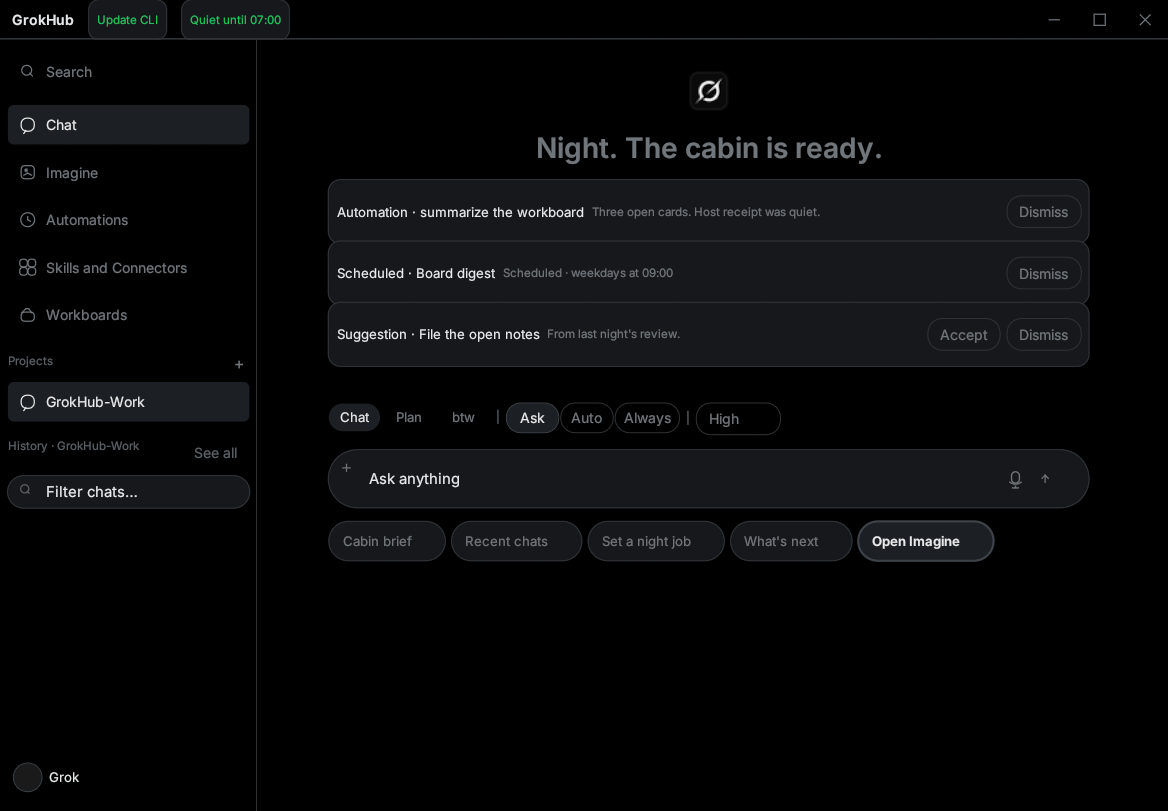
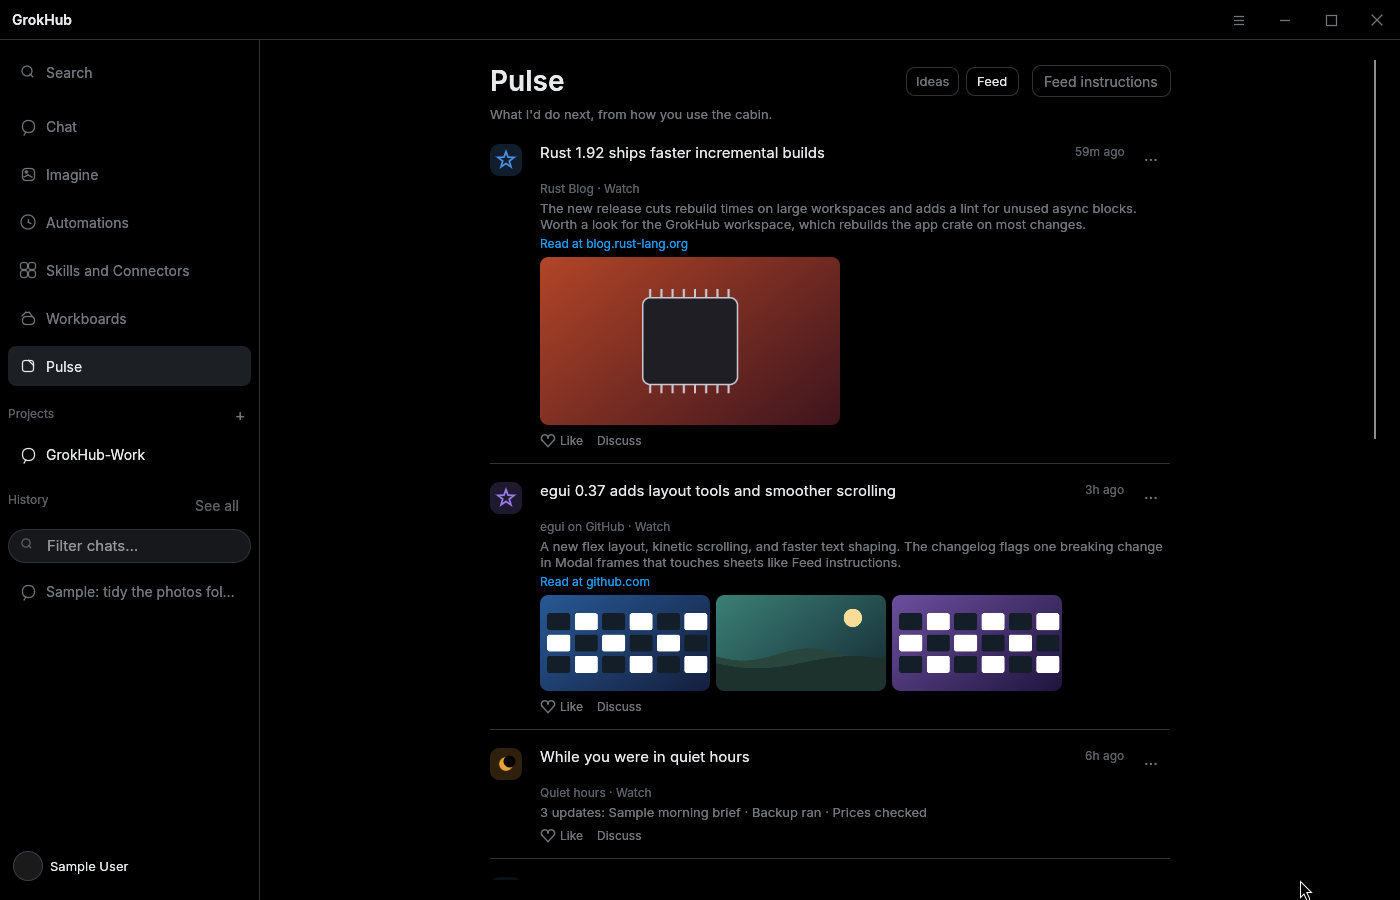
Cabin 2.10.91: Ideas is Pulse (README, CHANGELOG, docs renders, guide chip)

diff --git a/crates/grokhub-core/src/chips.rs b/crates/grokhub-core/src/chips.rs
@@ -582,8 +582,8 @@ fn guide_chips(connected: bool) -> Vec<QuickChip> {
     ));
     out.push(chip(
         "guide-ideas",
-        "Show Ideas",
-        "Explain the Ideas board in two sentences, then tell me how to open it.",
+        "Show Pulse",
+        "Explain the Pulse page (Ideas and Feed) in two sentences, then tell me how to open it.",
         ChipKind::Chat,
         100.0,
         "New here",

diff --git a/crates/grokhub-app/src/cli.rs b/crates/grokhub-app/src/cli.rs
@@ -91,7 +91,7 @@ mod tests {
 
     #[test]
     fn cabin_reports_version() {
-        assert_eq!(env!("CARGO_PKG_VERSION"), "2.10.90");
+        assert_eq!(env!("CARGO_PKG_VERSION"), "2.10.91");
     }
 
     #[test]

diff --git a/README.md b/README.md
@@ -2,12 +2,12 @@
 
 Native Rust cabin. No Electron. No Tauri. One repo, one `main`, one version — two ship artifacts.
 
-**v2.10.90** — Scheduled jobs run like crons: nothing shows while they run, they never hold up your chat, and their results land on the Follow up and Home cards.
+**v2.10.91** — Ideas is now Pulse: "I can …" ideas by category and a feed of posts with real images, ranked by plain rules, with feed instructions that learn what you like.
 
 | Platform | Artifact | Latest |
 |----------|----------|--------|
-| **Linux** (Arch / CachyOS) | `grokhub-linux-v2.10.90.tar.gz`, AUR | **v2.10.90** |
-| **Windows** (x86_64) | `GrokHub-Setup-2.10.90.exe`, `grokhub-windows-v2.10.90.zip` | **v2.10.90** |
+| **Linux** (Arch / CachyOS) | `grokhub-linux-v2.10.91.tar.gz`, AUR | **v2.10.91** |
+| **Windows** (x86_64) | `GrokHub-Setup-2.10.91.exe`, `grokhub-windows-v2.10.91.zip` | **v2.10.91** |
 | **Android** | [Grok-Hub-Android](https://github.com/blackviperxiii-ui/Grok-Hub-Android) | key-fob — pair, task, JPEG |
 
 Windows vs Linux in the cabin is `cfg(windows)` / `cfg(unix)`. The older [GrokHub-Windows](https://github.com/blackviperxiii-ui/GrokHub-Windows) fork is an archive source — new cabin work lands here.
@@ -84,6 +84,14 @@ Config and memory: `~/.config/GrokHub` (`app.json`, `projects.json`, `updates.js
 Tokens stay in `secrets.json`. Never in markdown.
 
 Composer is a pill. **Ask anything** is a faint placeholder on the same center as the paperclip, mic, and send. Five quick chips sit centered under the bar and rank the next likely move (last slash, last mode, Imagine vs chat, unfinished work, skills). The empty-home greeting is time + name + last project, not a memory dump. The paperclip opens Upload / Paste. Session pills are Chat / Plan / btw; permission is Ask / Auto / Always. Hover a pill for what it does. Mic is Hey Grok (Ara). It eases while listening or speaking and sits still when idle. While voice is live, Listening / Speaking / Ready sits above the composer with Stop. The strip stays up while Listening or Speaking and auto-hides about a second after Ready. Stop, the live mic, or Ctrl+G / Super+G leave. Failed STT shows Ready, not Listening. Enter sends; Ctrl+Enter is a newline. Composer Stop is a disc with a small rounded mark; idle Stop sits still, and it eases while hovered, pressed, or a reply is running. The changing status text above the composer is gone. The context usage bar stays. No live dot or Thinking label sits on the turn; the composer glow shows a running reply, and Stop's hover names the current action. Shared buttons hover-scale to 1.035, rise 1px over 120ms, shrink on press, and scale plus fill on keyboard focus. Chips, permission segments, and the rail share one highlight that glides. Off-screen chat rows skip paint; height follows the pane width and each row keeps its id. Chat streams Grok Build tokens onto the thread that started the job. A message typed while a reply runs steers it: Enter stops the turn where it is, keeps what it said and did in the transcript, and carries on with your message plus a note of that progress. Alt+Enter (or `/queue <message>`) queues it for after the reply instead, and a cabin-wide Grok command such as `/compact`, or Grok's own background tasks on the turn, still queue. With text typed during a run, a small row above the composer offers Steer and Queue, and lists queued messages with Steer now and Remove. Tool cards, diffs, permission prompts, and desk frames render in the pane. Leftover pages (Devices, Memory, History, Automations, Workboard, Command) use the same catalog chrome. Command is a user `/sh` field, not the agent. `/v1/frame.jpg` serves the last ACP computer-use image when one exists.
+
+## Pulse
+
+**Pulse** (it was Ideas) is one page with two tabs. **Ideas** lists what the cabin could do next, grouped by category (up to four of the most useful first, then Financial Management, Productivity, Relationships, Health & Fitness, Shopping, and More ideas). Each row has a category icon, a bold "I can …" line, a short reason, and a ··· menu. **Feed** is a column of posts: the source, the headline, two or three sentences, the source's own image when it has one, and Like / Discuss. Images come only from the post's thumbnail or the linked page's `og:image`, are cached in `pulse-images/` in the config folder, and show a placeholder until they arrive.
+
+Every card is one of five kinds: **Do** (one tap), **Watch** (news and results), **Learn** ("I can learn this and do it your way"), **Automate** (a repeat that could run on a schedule), and **Quiet** (kept, but not shown). Plain rules rank them, not the model: a skill ask, something due within a day, unfinished work on the same topic, and a repeat move a card up; a card you accepted gets a bump; Not this and Dismiss push that topic down. The model only writes the sentence. The ··· menu has **Run in the background** (sends the idea as `/bg`, so it runs invisibly like any background task; Ask mode refuses it, as it refuses every `/bg`), **Snooze until 9:00**, **Always do this** (or **That's right** / **That's wrong** on a Learn card), **Open**, **Not this**, and **Dismiss**. Likes, Not this, Dismiss and right/wrong each add one line to `MEMORY.md`, for example `- [2026-10-04] pulse: dismissed "Sort the photos" reason=not-this`, and the next ranking reads them.
+
+**Feed instructions** on the Feed tab is a plain-text prompt that shapes every future post. Edit it any time. After three likes or skips the cabin rewrites it itself, keeping your words and adding what it learned under "Show more of" and "Show less of". Cards that arrive during quiet hours wait and come back as one "While you were in quiet hours" post. The Home and Ideas data from older builds moves into Pulse once on first launch; nothing is deleted. The card deck on the empty chat is off by default now; Settings → Behavior → **Cards on the empty chat** turns it back on.
 
 ## Background tasks
 

diff --git a/CHANGELOG.md b/CHANGELOG.md
@@ -2,9 +2,20 @@
 
 ## Unreleased
 
+## 2.10.91 — 2026-10-04
+
+Ideas is now **Pulse**, one page with two tabs. **Ideas** lists what the cabin could do for you next, grouped by category: up to four of the strongest first, then Financial Management, Productivity, Relationships, Health & Fitness, Shopping, and More ideas. Each row has a category icon, a bold "I can …" line, a short reason, and a ··· menu. **Feed** is a column of posts with the source, the headline, two or three sentences, the source's own image, and Like / Discuss. Images come only from the post's thumbnail or the linked page's `og:image`, are cached in `pulse-images/` in the config folder, and show a placeholder until they arrive; tests use local files and never the network. The Home card deck and the Ideas board move into Pulse once on first launch, with every saved idea, card, pin, and feed setting kept. The deck no longer sits on the empty chat by default; Settings → Behavior → Cards on the empty chat turns it back on.
+
+Every card is now Do, Watch, Learn, Automate, or Quiet, and plain rules rank them instead of the model: a skill ask scores +1000, something due within a day +500, unfinished work on the same topic +250, a repeat +120, an idea you accepted +80, Not this −400, and Dismiss −200, on top of a base of 150 (Do), 140 (Automate), 130 (Learn), or 110 (Watch). Under 100 a card is Quiet and stays off the page. The model only writes the sentence. The ··· menu has Run in the background (it sends the idea as `/bg`, so it runs out of sight like other background work; Ask mode refuses it, as it refuses every `/bg`), Snooze until 9:00, Always do this (That's right / That's wrong on a Learn card), Open, Not this, and Dismiss. Likes, Not this, Dismiss, and right/wrong each add one line to `MEMORY.md`, such as `- [2026-10-04] pulse: dismissed "Sort the photos" reason=not-this`, and the next ranking reads them. Cards that arrive during quiet hours wait and come back as one "While you were in quiet hours" post.
+
+**Feed instructions** on the Feed tab is a plain-text prompt that shapes every future post. You can edit it any time, and after three likes or skips the cabin rewrites it itself, keeping your words and adding what it learned under "Show more of" and "Show less of". New tests cover the rename and old links, category order, the card types, each button (Run sends `/bg` with the idea's text on the fake Grok CLI, Snooze hides until 09:00, Dismiss removes, Not this writes the ledger line and drops the topic's score), the ranking scores, an instructions rewrite on the fake model, the quiet-hours post, the one-time move of old Home and Ideas data, and cached feed images with the placeholder.
+
 The repo's bot rules (`CLAUDE.md` and `.cursor/rules`) add one more: fetch origin and work from the latest `main`, merge `main` into a branch before touching it, re-check right before merging and before tagging, never render or screenshot from a stale checkout, and name the starting `main` SHA in every PR body and report.
 
 The Imagine page has one set of controls again. A row of unstyled debug buttons (sign in, use a code, Generate/Edit, the model picks, an image count stepper, Res, Aspect, Quality) sat above the chat box and duplicated the pills inside it. Those rows are gone. Sign in is a pill in the composer when Imagine has no Grok sign-in or API key, and account, mode, model, image count, edit sources, mask, and the video source live behind a new More pill. The composer's aspect pill now sets the aspect of every image, edit, and video request; before, stills ignored it and used only the separate Aspect button. The Speed/Quality pill alone picks resolution and quality, and the 6s/10s/15s and Video audio pills alone set duration and audio. The aspect icon is drawn larger, so the 2:3 shape no longer reads as a "0".
+
+- Linux: `grokhub-linux-v2.10.91.tar.gz` and AUR `pkgver=2.10.91`.
+- Windows: `GrokHub-Setup-2.10.91.exe` and `grokhub-windows-v2.10.91.zip`.
 
 ## 2.10.90 — 2026-10-04
 
